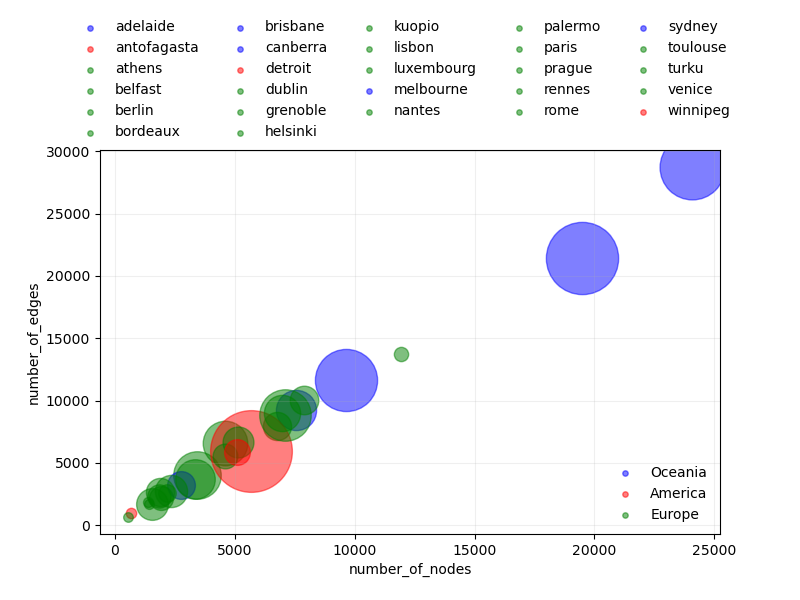
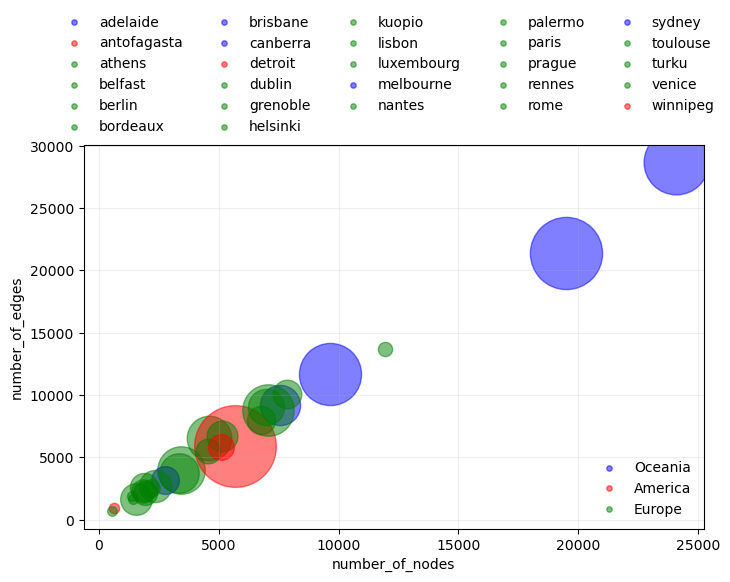
update all basic measures

diff --git a/plot_basic_measures.py b/plot_basic_measures.py
@@ -22,57 +22,53 @@ if __name__ == '__main__':
 
     ''' Load info about areas for each city '''
     area_population_dict = nf.load_json(area_population_file)
-    areas = nf.get_list_sorted_values('area', area_population_dict)
 
-    ''' Load info (previously computed) for certain measures for each network '''
+    ''' Plot basic measures in 5 subplots ordering cities for number of nodes '''
     measures_dict = nf.load_json(measures_file)
-    fig2 = pf.plot_measures(measures_dict)
-    fig_name = prefix_png+'basic_measures/measure_plot.png'
-    plt.savefig(fig_name)
+    df_measures = pd.DataFrame.from_dict(measures_dict).sort_values(by=['#nodes'], axis=1)
+    fig = pf.plot_measures(df_measures)
+    fig_name = prefix_png+'basic_measures/measures_plot.png'
+    fig.savefig(fig_name)
     plt.close()
 
     ''' Plot measures against areas '''
-    y_values = np.array(areas)
-    df = pd.DataFrame.from_dict(measures_dict)
-    x_values = list(df.to_numpy())
-    x_labels = list(df.index.values)
-    y_label = 'area'
-    labels = cities
+
+    df_measures = pd.DataFrame.from_dict(measures_dict)
+    df_area_population = pd.DataFrame.from_dict(area_population_dict)
+    df = pd.concat([df_measures, df_area_population]).T
+    x_values = [df['#nodes'], df['#edges'], df['density'], df['diameter'], df['avg_cc']]
+    x_labels = list(df.columns.values)[:5]
+    areas = df['area']
     markers = ['.', 'x', '+', 'o', '^']
     for x_val, x_label, i in zip(x_values, x_labels, range(len(x_values))):
-        fig = pf.create_scatter(x_val, y_values, x_label, y_label, labels, colors_cities)
+        fig = pf.create_scatter(x_values=x_val, y_values=areas, x_label=x_label, y_label='area',
+                                labels=df.index.values, colors=colors_cities)
         fig_name = prefix_png+'basic_measures/continents_division/'+x_label+'_continents.png'
         fig.savefig(fig_name)
     plt.close('all')
 
     ''' Plot x: #nodes, y: #edges and size of scatter points proportional to area of the city'''
-    n_nodes = nf.get_list_sorted_values('#nodes', measures_dict)
-    n_edges = nf.get_list_sorted_values('#edges', measures_dict)
-    x_values = np.array(n_nodes)
-    y_values = np.array(nf.get_list_sorted_values('#edges', measures_dict))
-    x_label = 'number_of_nodes'
-    y_label = 'number_of_edges'
-    labels = cities
-
-    fig = pf.create_scatter(x_values, y_values, x_label, y_label, labels, colors_cities, areas)
+    fig = pf.create_scatter(x_values=df['#nodes'], y_values=df['#edges'], x_label='number_of_nodes',
+                            y_label='number_of_edges', labels=cities, colors=colors_cities, areas=df['area'])
     fig_name = prefix_png+'basic_measures/continents_division/nodes_vs_edges_continents_alpha_legends.png'
-    fig.savefig(fig_name)
+    fig.savefig(fig_name, bbox_inches='tight')
     plt.close('all')
 
-    '''Plot #nodes/area on y axis and cities on x axis'''
-    y_values = [n / a for n, a in zip(n_nodes, areas)]
-    x_values = cities
+    ''' Plot #nodes/area on y axis and cities on x axis '''
+    df = df.sort_values(by=['#nodes'])
+    x_values = df.index.values
+    y_values = [n / a for n, a in zip(df['#nodes'], df['area'])]
 
     plt.plot(x_values, y_values, marker='o')
     plt.xticks(rotation=70)
     plt.subplots_adjust(bottom=0.25)
     plt.ylabel('#nodes/area')
-    fig_name = prefix_png+'density_of_nodes.png'
-    plt.savefig(fig_name)
+    fig_name = prefix_png+'basic_measures/density_of_nodes.png'
+    plt.savefig(fig_name, bbox_inches='tight')
 
     '''Plot CDF for areas and number of nodes and edges'''
-    n_edges = nf.get_list_sorted_values('#edges', measures_dict)
-    datavecs = [areas, n_nodes, n_edges]
+
+    datavecs = [df['area'], df['#nodes'], df['#edges']]
     labels = ['area', '#nodes', '#edges']
     xlabel = 'measure'
     ylabel = 'P(measure)'
@@ -86,8 +82,7 @@ if __name__ == '__main__':
     values = degrees.values()
 
     d = {}
-    for city, E, N in zip(degrees.keys(), n_edges, n_nodes):
-        list_k = degrees[city]
+    for city, list_k in degrees.items():
         row = {
             'min(k)': np.min(list_k),
             'max(k)': np.max(list_k),
@@ -98,42 +93,42 @@ if __name__ == '__main__':
         }
         d[city] = row
     pd.set_option('precision', 2)
-    df = pd.DataFrame.from_dict(d).T
-    # print(df)
-    # print(df[df['max(k)'] == df['max(k)'].max()])
+    df_degrees = pd.DataFrame.from_dict(d)
 
     ''' Plot all the degree distributions in one plot'''
-    labels = cities
-    xlabel = 'k'
-    ylabel = 'P(k)'
-    datavecs = degrees.values()
-    areas = nf.get_list_sorted_values('area', area_population_dict)
-    fig = nf.plot_multiple_distributions_with_colorbar(datavecs, labels, xlabel, ylabel, areas)
-    # fig.show()
+
+    fig = nf.plot_multiple_distributions_with_colorbar(datavecs=degrees.values(), labels=cities, xlabel='k',
+                                                       ylabel='P(k)', c=areas, max_k=28)
     fig_name = 'results/all/plots/basic_measures/degree_distribution.png'
     fig.savefig(fig_name, bbox_inches='tight')
 
-    # clusters = nf.get_cluster_dict_for_area()
-    # for cluster, list_cities in clusters.items():
-    #     datavecs = [list_k for city, list_k in degrees.items() if city in list_cities]
-    #     area_dict = {k: v for k, v in area_population_dict.items() if k in list_cities}
-    #     areas = nf.get_list_sorted_values('area', area_dict)
-    #     fig = nf.plot_multiple_distributions_with_colorbar(datavecs, list_cities, xlabel, ylabel, areas)
-    #     fig.show()
+    clusters = nf.get_cluster_dict_for_area()
+    for cluster, list_cities in clusters.items():
+        datavecs, areas, max_k = [], [], 0
+        for city in cities:
+            if city in list_cities:
+                max_city = int(df_degrees[city]['max(k)'])
+                if max_city > max_k:
+                    max_k = max_city
+                datavecs.append(degrees[city])
+                areas.append(area_population_dict[city]['area'])
+
+        fig = nf.plot_multiple_distributions_with_colorbar(datavecs=datavecs, labels=list_cities, xlabel='k',
+                                                           ylabel='P(k)', c=areas, max_k=max_k)
+        fig_name = prefix_png+'basic_measures/clusters/'+cluster+'_P(k).png'
+        fig.savefig(fig_name, bbox_inches='tight')
 
     ''' Plot the degree distribution for each city and save the m of the fit line '''
     gammas = []
     for city, list_degrees in degrees.items():
-        # print(df)
-        max_k = int(df.T[city][1])
-        xlabel = 'k'
-        ylabel = 'P(k)'
         plt.close('all')
-        fig, m = nf.plot_degree_distribution(list_degrees, city, xlabel, ylabel, max_k)
-        # fig.show()
+        fig, m = nf.plot_degree_distribution(degrees=list_degrees, city=city, xlabel='k', ylabel='P(k)',
+                                             max_k=int(df_degrees[city][1]))
         fig_name = 'results/'+city+'/degree_distribution.png'
         fig.savefig(fig_name, bbox_inches='tight')
         gammas.append(m)
 
-    df['\u03B3'] = gammas
-    print(df)
+    df_degrees = df_degrees.T
+    df_degrees['\u03B3'] = gammas
+    print(df_degrees)
+    print(df_degrees.describe())

diff --git a/network_functions.py b/network_functions.py
@@ -802,7 +802,7 @@ def plot_degree_distribution(degrees, city, xlabel, ylabel, max_k):
     return fig, m
 
 
-def plot_multiple_distributions_with_colorbar(datavecs, labels, xlabel, ylabel, c):
+def plot_multiple_distributions_with_colorbar(datavecs, labels, xlabel, ylabel, c, max_k):
     """
     Function that plots several distribution over a log-log plot with a line fit over the average of all the
     distributions
@@ -816,13 +816,12 @@ def plot_multiple_distributions_with_colorbar(datavecs, labels, xlabel, ylabel, 
 
     :return: fig
     """
-
-    markers = (['_', 'v', '^', 'o', '+', 'x', 'd'] * 7)[:len(datavecs)]
+    n_cities = len(datavecs)
+    markers = (['_', 'v', '^', 'o', '+', 'x', 'd'] * 7)[:n_cities]
     fig = plt.figure()
     ax = fig.add_subplot(111)
     colors = plt.cm.plasma(get_normalized_values(c))
 
-    max_k = 28
     k_values = range(1, max_k + 1)
     avg_pk = np.array([0] * max_k)
 
@@ -836,17 +835,18 @@ def plot_multiple_distributions_with_colorbar(datavecs, labels, xlabel, ylabel, 
 
         avg_pk = avg_pk + pk
 
-    y = [v / 27 for v in avg_pk[1:] if v > 0]
+    y = [v / n_cities for v in avg_pk[1:] if v > 0]
     x = range(2, len(y) + 2)
 
     logx = np.log(x)
     logy = np.log(y)
     [m, q] = np.polyfit(logx, logy, 1)
     print("m: %.4f, q: %.4f" % (m, q))
-    # print(m*logx + q)
-    y_fit = np.exp(m * logx[:15] + q)
-    # print(y_fit)
-    ax.plot(x[:15], y_fit, linestyle=':')
+
+    if max_k == 27:
+        max_k = 15
+    y_fit = np.exp(m * logx[:max_k] + q)
+    ax.plot(x[:max_k], y_fit, linestyle=':')
 
     ax.set_xlabel(xlabel)
     ax.set_ylabel(ylabel)

diff --git a/generic_plot_functions.py b/generic_plot_functions.py
@@ -52,21 +52,18 @@ def plot_measures_with_subplots(nrows, ncols, x_values, y_values, colors, labels
     return fig, axs
 
 
-def plot_measures(measures_dict):
+def plot_measures(df):
     """
-    plot dictionary of measures in multiple subplots
+    plot dataframe of measures in multiple subplots
 
-    :param measures_dict: dict - keys = cities, values = dict of measures to plot
+    :param df: pandas dataframe of basic measures
     :return: fig
     """
-    df = pd.DataFrame.from_dict(measures_dict)
-    print(df.head())
 
-    cities = list(measures_dict.keys())
-    x_values = np.array(cities)
+    x_values = df.columns.values
     y_values = df.values.tolist()
     colors = ['r', 'b', 'g', 'y', 'm']
-    labels = list(measures_dict[cities[0]].keys())
+    labels = df.index.values
 
     fig, axs = plot_measures_with_subplots(len(labels), 1, x_values, y_values, colors, labels)
     fig.legend()
